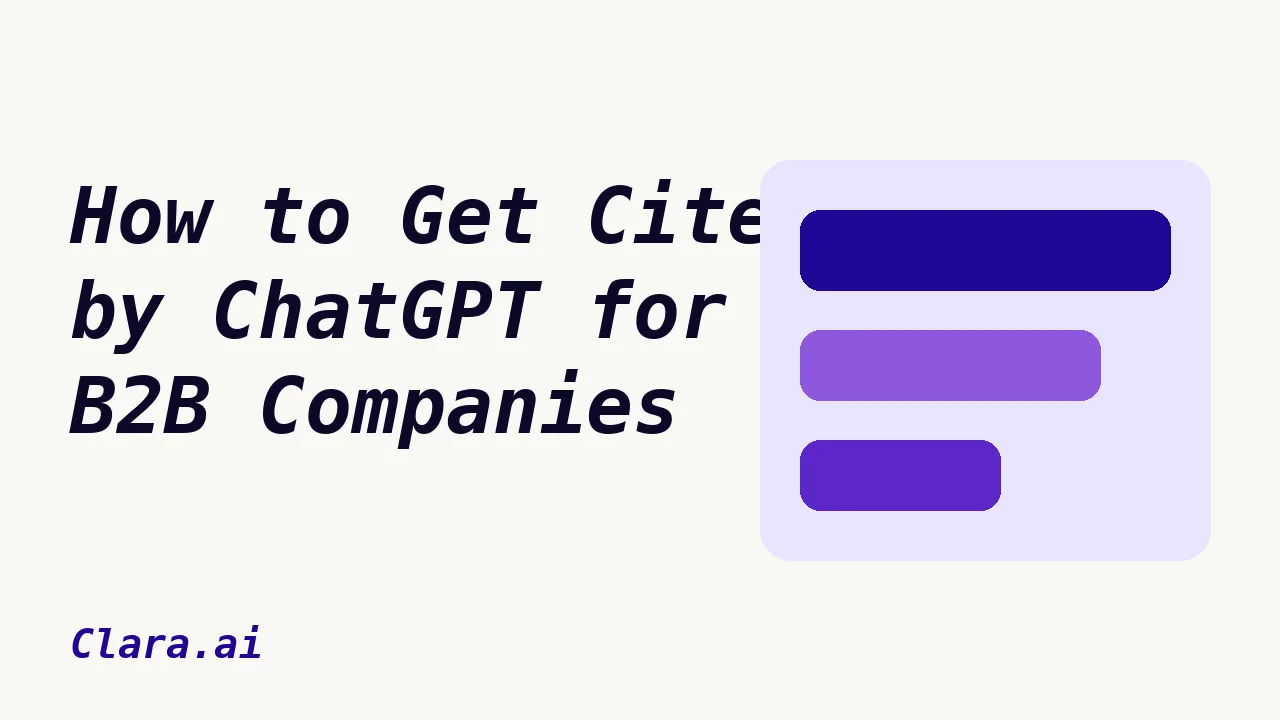
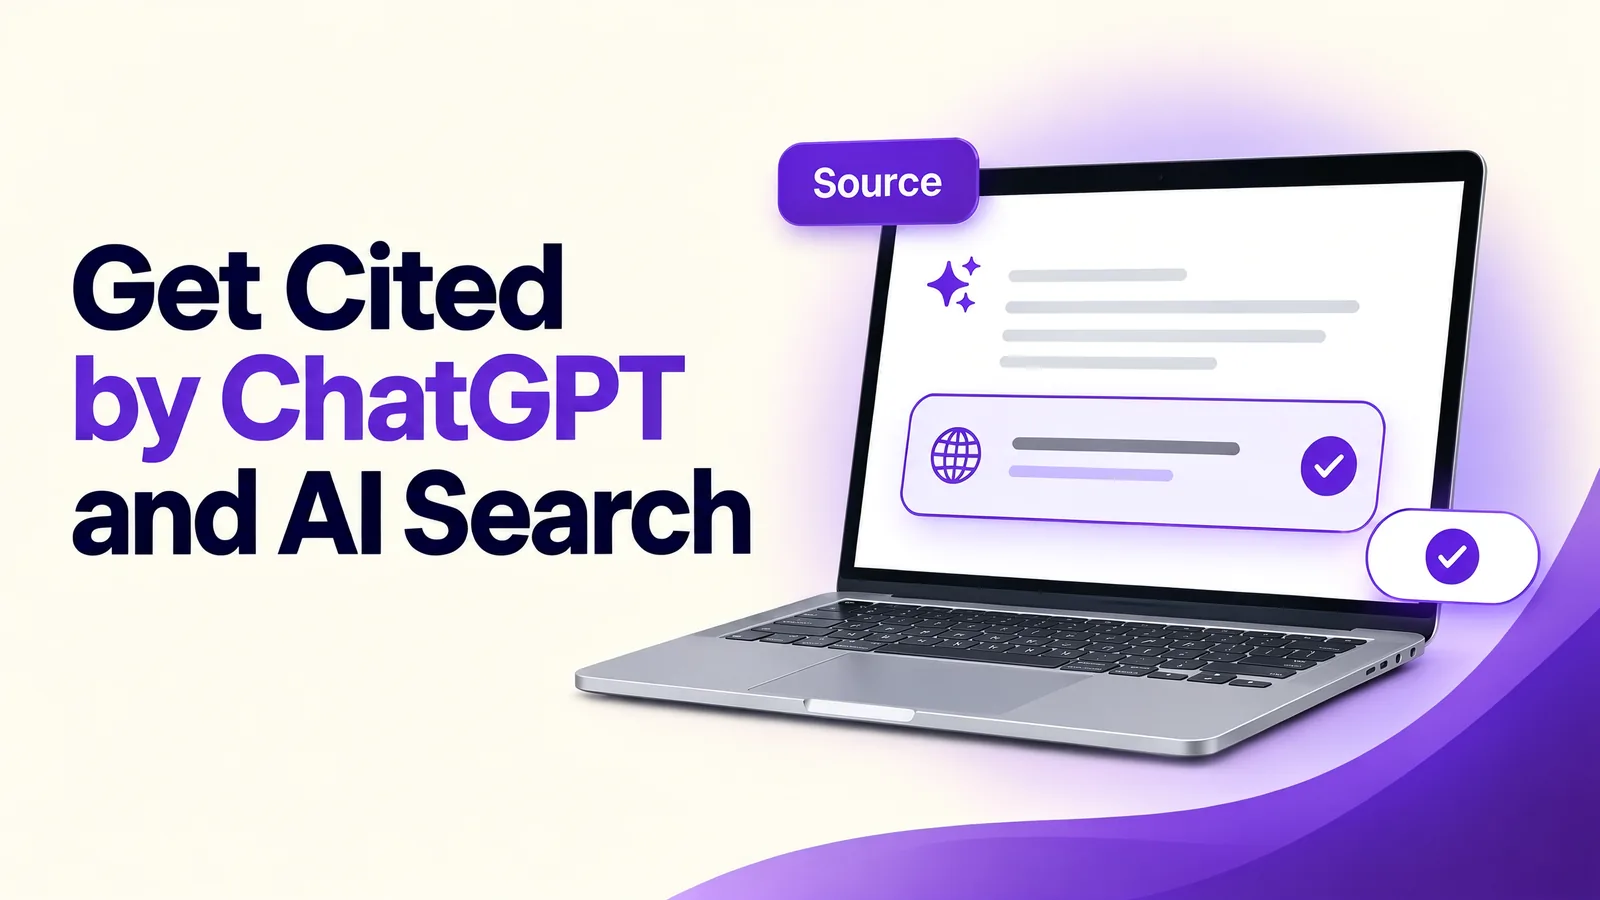
Replace images with generated versions, add body diagram and sources: how-to-get-cited-by-chatgpt-for-b2b-companies

diff --git a/posts/how-to-get-cited-by-chatgpt-for-b2b-companies/body.html b/posts/how-to-get-cited-by-chatgpt-for-b2b-companies/body.html
@@ -18,8 +18,12 @@
 <ul>
 <li><strong>Be findable.</strong> The page must be indexed and ranking for the question. A page that search engines have not indexed cannot be cited.</li>
 <li><strong>Be quotable.</strong> The answer must sit in the first lines, in plain words, with a table or steps where they help.</li>
-<li><strong>Be believable.</strong> Real facts, dated numbers and named examples beat vague claims.</li>
+<li><strong>Be trusted.</strong> Real facts, dated numbers and named examples beat vague claims.</li>
 </ul>
+<figure>
+<img src="images/findable-quotable-trusted.webp" alt="Three cards, findable, quotable and trusted, leading to being cited in AI answers" width="1600" height="900" loading="lazy">
+</figure>
+<p>OpenAI's help page on <a href="https://help.openai.com/en/articles/9237897-chatgpt-search">searching the web with ChatGPT</a> says no site is promised a place in its results, and that a site must let OpenAI's search crawler (OAI-SearchBot) reach it. Google says the same SEO basics apply to its AI Overviews and AI Mode, and that a page must be indexed to show as a supporting link (<a href="https://developers.google.com/search/docs/appearance/ai-features">Google Search Central</a>).</p>
 <p>This is why good SEO is the foundation. Our guide to <a href="https://claraai.tech/blog/geo-generative-engine-optimization/">GEO (generative engine optimization)</a> explains the idea in simple terms.</p>
 
 <h2>What pages do AI assistants quote for B2B questions?</h2>
@@ -42,12 +46,12 @@
 <li><strong>Answer first.</strong> Put the direct answer in the first 40 to 60 words of the page. Then add detail below it.</li>
 <li><strong>Use question-style headings.</strong> Headings that match how buyers type make it easy for a tool to pull the right section.</li>
 <li><strong>Add real facts.</strong> Use your own data, dated results and named examples. Generic text gives an assistant no reason to pick you over the next page.</li>
-<li><strong>Get the page indexed.</strong> Check the page is in your sitemap, and ask Google to index it through Search Console. A page nobody can find cannot be cited.</li>
+<li><strong>Get the page indexed.</strong> Check the page is in your sitemap, that robots.txt does not block search crawlers such as OAI-SearchBot and Googlebot, and ask Google to index it through Search Console. A page nobody can find cannot be cited.</li>
 <li><strong>Link the cluster.</strong> Connect each post to related posts and to the service page. A group of linked posts on one topic signals that you know the subject.</li>
 </ol>
 
 <h2>How do you know if ChatGPT is mentioning your company?</h2>
-<p>Search Console cannot show traffic from AI answers. You have to check by hand, and keep the method the same each time.</p>
+<p>Search Console counts Google's own AI Overviews inside normal search data, but it cannot show when ChatGPT or Perplexity name you. You have to check those by hand, and keep the method the same each time.</p>
 <ol class="steps">
 <li><strong>Fix a list.</strong> Pick 10 to 20 buyer questions and keep them unchanged.</li>
 <li><strong>Ask in a clean window.</strong> Use a fresh, logged-out session in ChatGPT, Gemini and Perplexity, so your own history does not shape the answer.</li>
